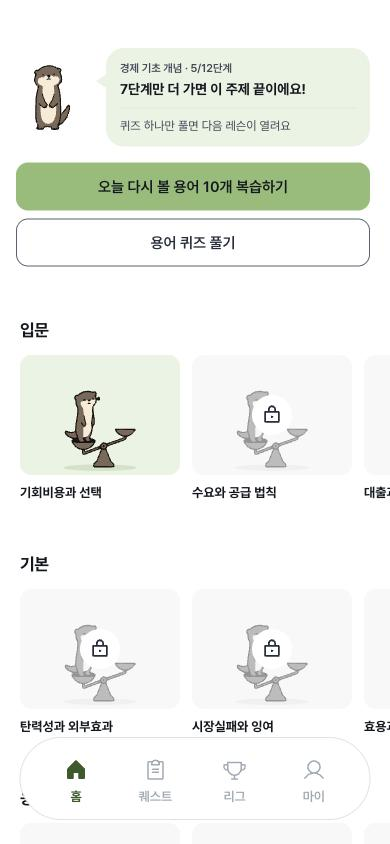
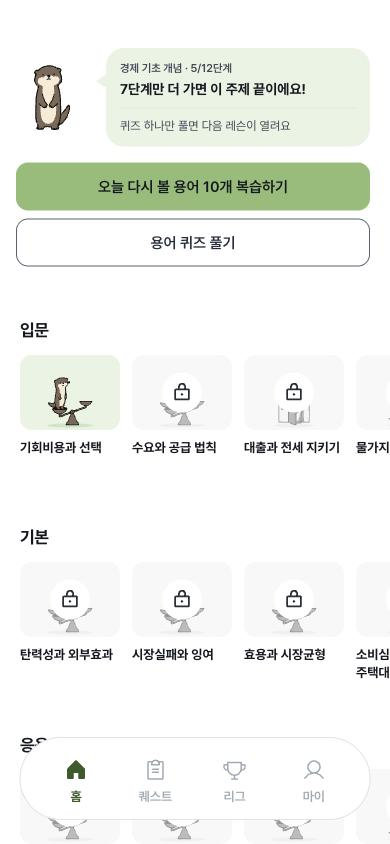
홈 코스 카드 그림을 160x120에서 100x75로(코스 이름 길이 정도)

diff --git a/src/index.css b/src/index.css
@@ -1269,7 +1269,8 @@ button.review-aux-button:disabled { color: var(--color-ink-3); }
 .my-page-sections .my-page-panel.my-page-menu { padding-inline: 0; }
 .my-page-menu button > div { padding-inline: 0; }
 /* 홈 주제 카드: 작은 주제 썸네일 + 제목·단계를 한 줄로. 주버튼보다 가볍게 */
-button.course-home-rail-card { width: 160px; flex-direction: column; align-items: stretch; gap: var(--space-2); }
+/* 코스 카드: 그림 폭을 코스 이름 길이(한 줄 7~8자) 정도로 */
+button.course-home-rail-card { width: 100px; flex-direction: column; align-items: stretch; gap: var(--space-2); }
 .course-home-rail-text { display: flex; min-width: 0; flex-direction: column; align-items: flex-start; gap: 2px; text-align: left; }
 .course-home-rail-card .course-home-rail-title { font-size: var(--font-size-label); }
 .course-home-rail-card .course-home-rail-meta { display: flex; align-items: center; gap: var(--space-1); }

diff --git a/src/pages/CourseScreen.tsx b/src/pages/CourseScreen.tsx
@@ -422,7 +422,7 @@ const CourseScreen = () => {
                     data-current={section.course.id === focus?.courseId || undefined}
                     onClick={() => navigate(`/course?topic=${topic.index}&course=${section.course.id}`)} aria-label={`${topic.category} ${name} 코스 열기, ${locked ? '잠김' : `${done}/${steps.length}단계 완료`}`}>
                     <span className="course-home-rail-thumb">
-                      <TopicThumb category={topic.category} size={160} height={120} />
+                      <TopicThumb category={topic.category} size={100} height={75} />
                       {locked && <span className="course-home-rail-lock"><LockKeyhole size={20} aria-hidden="true" /></span>}
                     </span>
                     <span className="course-home-rail-text">

diff --git a/DESIGN.md b/DESIGN.md
@@ -74,7 +74,7 @@
 
 **주제 썸네일(2026-11-04)**
 
-- 홈은 난이도마다 한 줄(입문·기본·응용·전문: 데이터 값 기초·중급·고급·심화의 화면 이름, `LEVEL_LABELS`)로, 그 난이도 코스 카드(160x120 주제 그림, 아래 코스 이름만 왼쪽 정렬, 잠긴 코스는 흐린 그림 + 자물쇠)를 학습 순서대로 가로로 둔다. 지금 학습 중인 난이도 줄은 그 코스로 가로 위치를 맞춘다.
+- 홈은 난이도마다 한 줄(입문·기본·응용·전문: 데이터 값 기초·중급·고급·심화의 화면 이름, `LEVEL_LABELS`)로, 그 난이도 코스 카드(100x75 주제 그림, 아래 코스 이름만 왼쪽 정렬, 잠긴 코스는 흐린 그림 + 자물쇠)를 학습 순서대로 가로로 둔다. 지금 학습 중인 난이도 줄은 그 코스로 가로 위치를 맞춘다.
 - 그림이 없는 주제는 회색 바탕에 주제 첫 글자를 둔다. 새 주제는 장면 일러스트로 추가한다(`docs/character/topics/`).
 - 카드는 그림자 없이 그림과 글자만 둔다. 기사 원문 사진은 언론사 저작물이라 쓰지 않는다.
 
